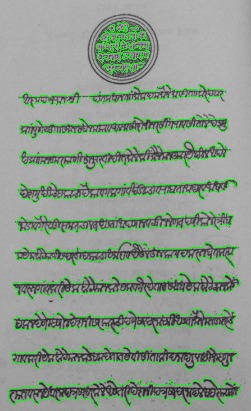
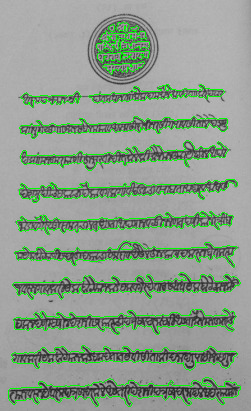
chore: increase size requirement of bbs

diff --git a/Line Segmentation in Historical Document/src/detection.py b/Line Segmentation in Historical Document/src/detection.py
@@ -25,7 +25,7 @@ def _mark_main_doc_contours(
         x, y, w, h = cv2.boundingRect(contour)
         logging.info(f"bounding box: {x, y, w, h}")
 
-        if not (50 <= h * w <= (bottom_area / 2)):
+        if not (100 <= h * w <= (bottom_area / 2)):
             continue
 
         cv2.rectangle(bbs_img[y_sep:, :], (x, y), (x + w, y + h), (0, 255, 0), 2)
@@ -148,20 +148,20 @@ def preprocess_image(image: np.ndarray, y_sep: int = 80) -> np.ndarray:
     L = np.iinfo(image.dtype).max + 1
 
     out = cv2.cvtColor(image, cv2.COLOR_BGR2GRAY)
-    show_image(out, "full - gray", False, cmap="gray")
+    show_image(out, "full - gray", True, cmap="gray")
 
     # bottom half
     out[y_sep:, :] = cv2.GaussianBlur(out[y_sep:, :], (5, 5), 0)  # kernel size, sigma
-    show_image(out, "bottom - blurred", False, cmap="gray")
+    show_image(out, "bottom - blurred", True, cmap="gray")
 
     _, out[y_sep:, :] = cv2.threshold(
         out[y_sep:, :], 0, L, cv2.THRESH_BINARY + cv2.THRESH_OTSU
     )
-    show_image(out, "bottom - thresholded", False, cmap="gray")
+    show_image(out, "bottom - thresholded", True, cmap="gray")
 
     kernel = cv2.getStructuringElement(cv2.MORPH_ELLIPSE, (5, 5))
-    out[y_sep:, :] = cv2.morphologyEx(out[y_sep:, :], cv2.MORPH_OPEN, kernel)
-    show_image(out, "bottom - morphed", False, cmap="gray")
+    # out[y_sep:, :] = cv2.morphologyEx(out[y_sep:, :], cv2.MORPH_OPEN, kernel)
+    # show_image(out, "bottom - morphed", True, cmap="gray")
 
     # top half
     top_processed = out.copy()
@@ -170,30 +170,30 @@ def preprocess_image(image: np.ndarray, y_sep: int = 80) -> np.ndarray:
     _, out[:y_sep, :] = cv2.threshold(
         out[:y_sep, :], 0, L, cv2.THRESH_BINARY + cv2.THRESH_OTSU
     )
-    show_image(out, "top - thresholded", False, cmap="gray")
+    show_image(out, "top - thresholded", True, cmap="gray")
 
     out[:y_sep, :] = cv2.morphologyEx(out[:y_sep, :], cv2.MORPH_OPEN, kernel)
-    show_image(out, "top - morphed", False, cmap="gray")
+    show_image(out, "top - morphed", True, cmap="gray")
 
     outside_seal_contours, _ = cv2.findContours(
         out[:y_sep, :], cv2.RETR_TREE, cv2.CHAIN_APPROX_SIMPLE
     )
 
     out[:y_sep, :] = cv2.bitwise_not(top_processed[:y_sep, :])
-    show_image(out, "top - inverted", False, cmap="gray")
+    show_image(out, "top - inverted", True, cmap="gray")
 
     for contour in outside_seal_contours:
         cv2.drawContours(out[:y_sep, :], [contour], -1, (255, 255, 255), -1)
-    show_image(out, "top - outside seal filled", False, cmap="gray")
+    show_image(out, "top - outside seal filled", True, cmap="gray")
 
     # remove noise within seal
     out[:y_sep, :] = cv2.GaussianBlur(out[:y_sep, :], (5, 5), 0)
-    show_image(out, "top - blurred", False, cmap="gray")
+    show_image(out, "top - blurred", True, cmap="gray")
 
     out[:y_sep, :] = cv2.adaptiveThreshold(
         out[:y_sep, :], L, cv2.ADAPTIVE_THRESH_GAUSSIAN_C, cv2.THRESH_BINARY, 11, 2
     )
-    show_image(out, "top - thresholded (adaptive)", False, cmap="gray")
+    show_image(out, "top - thresholded (adaptive)", True, cmap="gray")
 
     # mask seal circle itself
     contours, _ = cv2.findContours(
@@ -214,6 +214,6 @@ def preprocess_image(image: np.ndarray, y_sep: int = 80) -> np.ndarray:
 
         out[:y_sep, :] = np.where(mask[:, :], out[:y_sep, :], white_background)
 
-    show_image(out, "top - without seal circle", False, cmap="gray")
+    show_image(out, "top - without seal circle", True, cmap="gray")
 
     return out
